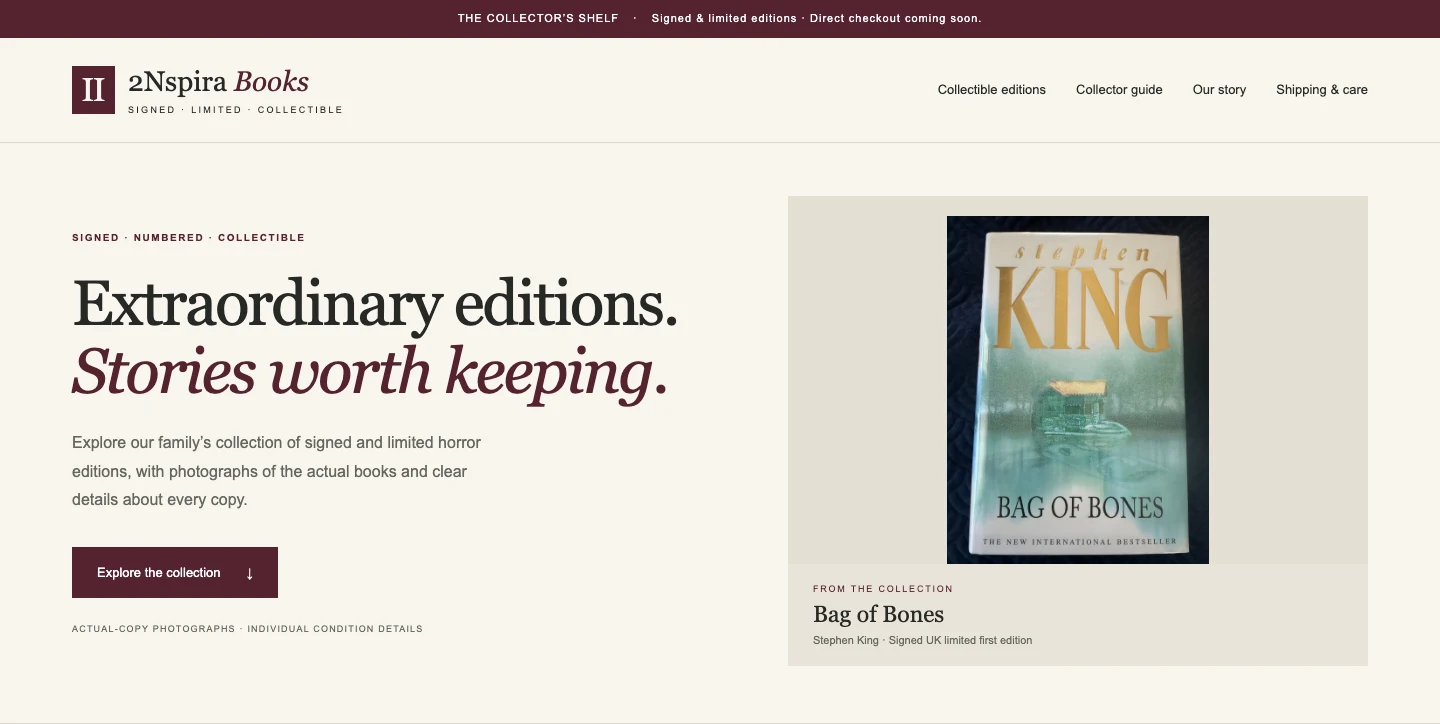
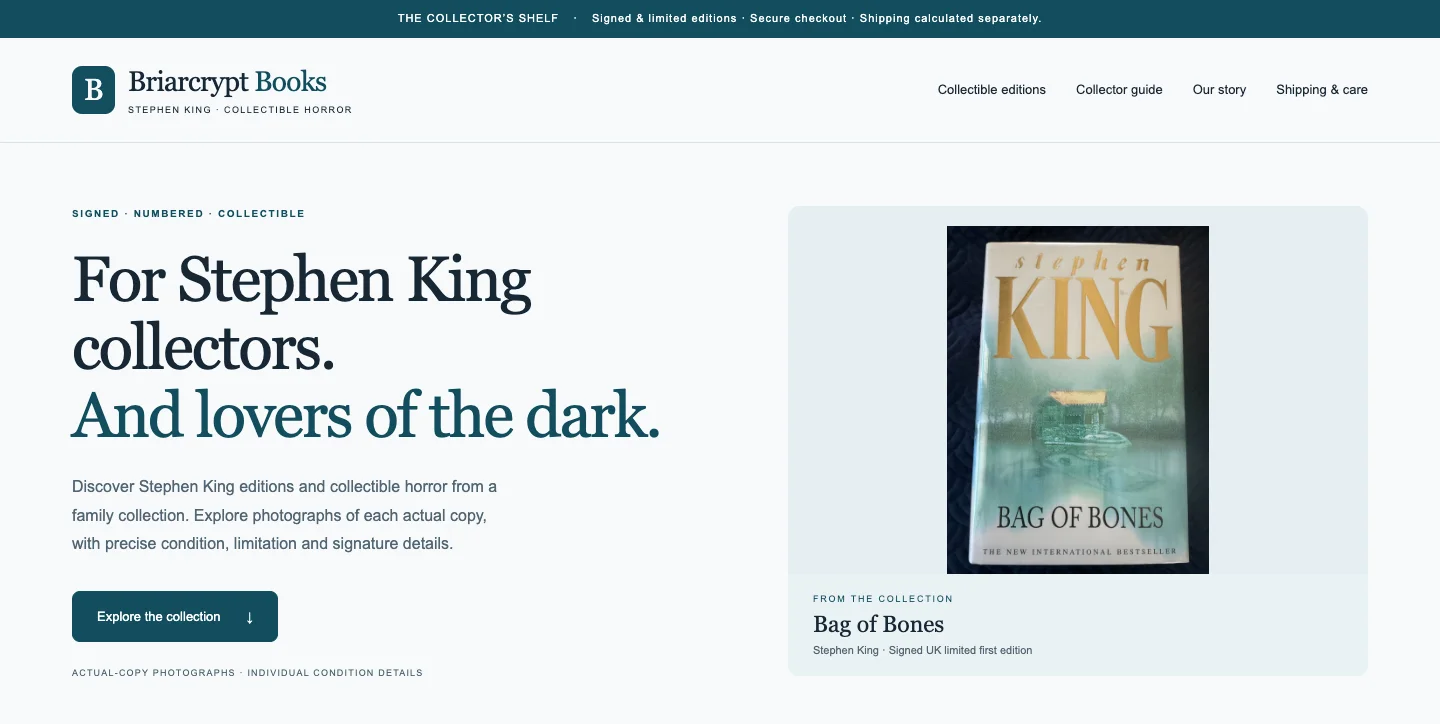
Rebrand bookstore references and showcase as Briarcrypt Books

diff --git a/2nspira-website/src/app/shop/page.tsx b/2nspira-website/src/app/shop/page.tsx
@@ -42,20 +42,20 @@ export default function ShopPage() {
       <div className="mx-auto max-w-6xl px-4 pb-20 sm:px-6">
         <aside data-catalog-fade className="mb-10 grid items-center gap-7 rounded-2xl border border-line bg-accent-soft p-6 sm:p-8 lg:grid-cols-2 lg:gap-10" aria-labelledby="shop-bookstore-title">
           <div>
-            <p className="mb-3 text-sm font-semibold uppercase tracking-widest text-body">The collector’s shelf · 2Nspira Books</p>
+            <p className="mb-3 text-sm font-semibold uppercase tracking-widest text-body">The collector’s shelf · Briarcrypt Books</p>
             <h2 id="shop-bookstore-title" className={h2}>Rare & collectible books.</h2>
-            <p className="mt-3 leading-7 text-body">Discover our collection of rare collectible books, including signed and limited editions. Explore photographs of the actual copies, individual condition details, and the stories behind each edition at 2Nspira Books.</p>
-            <a href="https://books.2nspira.com" className={`mt-5 min-h-[48px] ${buttonPrimary}`}>Explore rare collectibles <span aria-hidden="true" className="ml-2">→</span></a>
+            <p className="mt-3 leading-7 text-body">Discover an independent collection of rare collectible books, including signed and limited editions. Explore photographs of the actual copies, individual condition details, and the stories behind each edition at Briarcrypt Books.</p>
+            <a href="https://briarcrypt.com" className={`mt-5 min-h-[48px] ${buttonPrimary}`}>Explore rare collectibles <span aria-hidden="true" className="ml-2">→</span></a>
           </div>
-          <a href="https://books.2nspira.com" data-catalog-card className="block overflow-hidden rounded-xl border border-line bg-white shadow-lg transition-shadow hover:shadow-xl focus-visible:outline-2 focus-visible:outline-offset-4 focus-visible:outline-accent" aria-label="Visit 2Nspira Books rare collectible bookstore">
+          <a href="https://briarcrypt.com" data-catalog-card className="block overflow-hidden rounded-xl border border-line bg-white shadow-lg transition-shadow hover:shadow-xl focus-visible:outline-2 focus-visible:outline-offset-4 focus-visible:outline-accent" aria-label="Visit Briarcrypt Books rare collectible bookstore">
             <div className="flex items-center gap-2 border-b border-line bg-white px-4 py-3 text-xs text-body" aria-hidden="true">
               <span className="h-2 w-2 rounded-full bg-slate-300" />
               <span className="h-2 w-2 rounded-full bg-slate-300" />
               <span className="h-2 w-2 rounded-full bg-slate-300" />
-              <span className="ml-2">books.2nspira.com</span>
+              <span className="ml-2">briarcrypt.com</span>
             </div>
-            <Image src="/images/shop/rare-books-website.webp" alt="2Nspira Books website featuring a signed limited edition of Stephen King’s Bag of Bones" width={1440} height={724} sizes="(min-width: 1024px) 500px, 100vw" className="h-auto w-full" />
-            <p className="border-t border-line px-4 py-3 text-sm font-semibold text-body">Preview our collectible bookstore <span aria-hidden="true">↗</span></p>
+            <Image src="/images/shop/rare-books-website.webp" alt="Briarcrypt Books website featuring a signed limited edition of Stephen King’s Bag of Bones" width={1440} height={724} sizes="(min-width: 1024px) 500px, 100vw" className="h-auto w-full" />
+            <p className="border-t border-line px-4 py-3 text-sm font-semibold text-body">Explore Briarcrypt Books <span aria-hidden="true">↗</span></p>
           </a>
         </aside>
         <nav aria-label="Shop departments" className="flex flex-wrap gap-3">{[{name:"Our published books",href:"#published-books"},{name:"Rare & collectible books",href:"#shop-bookstore-title"},{name:"Other creative products",href:"#creative-products"}].map(link=><a key={link.href} href={link.href} className={buttonPrimary}>{link.name}</a>)}</nav>

diff --git a/2nspira-website/src/lib/audiences/seed.ts b/2nspira-website/src/lib/audiences/seed.ts
@@ -120,7 +120,7 @@ export function upgradeContent(content: Content): Content {
   }
   // Retired offerings must not reappear from saved content. Preserve all other Admin edits.
   const retire = (value: unknown): unknown => {
-    if (typeof value === "string") return value.replaceAll("/fractional-cio", "/technology-advisory").replaceAll("Executive Technology Advisory", "Technology Advisory & Leadership").replaceAll("/coaching", "/services").replaceAll("/entrepreneur-mentoring", "/services").replaceAll("Entrepreneur mentoring offers a sounding board for priorities, trade-offs and accountability as you develop the business.", "Technology advisory helps you compare priorities and plan the next stage of your business.").replaceAll("founder mentoring", "technology advisory").replaceAll("Advice and mentoring", "Technology advisory").replaceAll("get mentoring as the business grows", "plan technology as the business grows").replaceAll("Mentoring does not include", "Advisory does not include").replaceAll("advice, mentoring or", "technology advisory or");
+    if (typeof value === "string") return value.replaceAll("https://books.2nspira.com", "https://briarcrypt.com").replaceAll("Visit 2Nspira Books — our own storefront", "Visit Briarcrypt Books — independent bookstore").replaceAll("2Nspira Books", "Briarcrypt Books").replaceAll("2Nspira-owned storefront", "Independent client storefront").replaceAll("Our rare and collectible book storefront shows individual-copy photographs, condition details and product discovery. It is our own retail project, not a third-party client case study or proof of an omnichannel integration.", "Briarcrypt Books is an independent bookstore built by 2Nspira, with individual-copy photographs, condition details and product discovery. It is not proof of an omnichannel integration.").replaceAll("/fractional-cio", "/technology-advisory").replaceAll("Executive Technology Advisory", "Technology Advisory & Leadership").replaceAll("/coaching", "/services").replaceAll("/entrepreneur-mentoring", "/services").replaceAll("Entrepreneur mentoring offers a sounding board for priorities, trade-offs and accountability as you develop the business.", "Technology advisory helps you compare priorities and plan the next stage of your business.").replaceAll("founder mentoring", "technology advisory").replaceAll("Advice and mentoring", "Technology advisory").replaceAll("get mentoring as the business grows", "plan technology as the business grows").replaceAll("Mentoring does not include", "Advisory does not include").replaceAll("advice, mentoring or", "technology advisory or");
     if (Array.isArray(value)) return value.map(retire);
     if (value && typeof value === "object") return Object.fromEntries(Object.entries(value).map(([key, item]) => [key, retire(item)]));
     return value;

diff --git a/2nspira-website/src/lib/audiences/page-seeds.ts b/2nspira-website/src/lib/audiences/page-seeds.ts
@@ -66,7 +66,7 @@ export const dedicatedAudiences: Industry[] = [
     help: "Connect storefronts, inventory, order handling, payment workflows and customer communications around the way you sell.",
     outcomes: "Less repeated entry, clearer order follow-through and a more consistent shopping experience across channels.",
     linkLabel: "Explore retail & e-commerce support", href: audienceRoutes.retail,
-    exampleLabel: "Visit 2Nspira Books — our own storefront", exampleHref: "https://books.2nspira.com",
+    exampleLabel: "Visit Briarcrypt Books — independent bookstore", exampleHref: "https://briarcrypt.com",
     page: {
       seoTitle: "Retail & E-commerce Websites, Integrations & Automation",
       seoDescription: "Connect storefronts, inventory, orders, payments and customer communications with practical technology support for independent retailers and e-commerce businesses.",
@@ -84,7 +84,7 @@ export const dedicatedAudiences: Industry[] = [
       ],
       advisoryTitle: "Choose what fits your shop", advisoryText: "Review the sales journey, current tools and operational constraints before choosing an integration or replacement. We can help prioritize a manageable improvement rather than assume you need a new platform.",
       implementationTitle: "Build and connect an agreed scope", implementationText: "Implementation is separately scoped around supported systems, data access, payment-provider boundaries and testing. A storefront example does not imply every inventory or payment integration is already available.",
-      examples: [{ title: "2Nspira Books", kind: "2Nspira-owned storefront", text: "Our rare and collectible book storefront shows individual-copy photographs, condition details and product discovery. It is our own retail project, not a third-party client case study or proof of an omnichannel integration.", href: "https://books.2nspira.com" }],
+      examples: [{ title: "Briarcrypt Books", kind: "Independent client storefront", text: "Briarcrypt Books is an independent bookstore built by 2Nspira, with individual-copy photographs, condition details and product discovery. It is not proof of an omnichannel integration.", href: "https://briarcrypt.com" }],
       ctaTitle: "Where does a sale create extra work?", ctaText: "Walk us through your storefronts, order process and customer follow-up. We can discuss one practical connection or improvement to start with.", ctaLabel: "Book a conversation about your shop",
     },
   },

diff --git a/2nspira-website/src/app/work/page.tsx b/2nspira-website/src/app/work/page.tsx
@@ -37,10 +37,10 @@ const teamsCapabilities = [
 
 const supportingProjects = [
   {
-    name: "2Nspira Books",
+    name: "Briarcrypt Books",
     description:
-      "Our dedicated storefront for rare and collectible books, with photographs and condition details for individual copies.",
-    url: "https://books.2nspira.com",
+      "An independent storefront built by 2Nspira for rare and collectible books, with photographs and condition details for individual copies.",
+    url: "https://briarcrypt.com",
     image: "/images/work/live-books-20261105.jpg",
   },
   {
@@ -248,9 +248,9 @@ export default async function WorkPage() {
                 <Link href="/post/building-ai-team-multi-agent-workflow-lessons" className={styles.projectLink}>Explore the engineering lessons <span aria-hidden="true">→</span></Link>
               </div>
             </article>
-            {supportingProjects.filter(project => ["2Nspira", "2Nspira Books", "Breadcrumb", "CalmLoop"].includes(project.name)).map(project => {
+            {supportingProjects.filter(project => ["2Nspira", "Briarcrypt Books", "Breadcrumb", "CalmLoop"].includes(project.name)).map(project => {
               const visuals: Record<string, { image: string; alt: string; label: string }> = {
-                "2Nspira Books": { image: "/images/work/live-books-20261105.jpg", alt: "2Nspira Books storefront featuring collectible editions", label: "Rare & collectible books" },
+                "Briarcrypt Books": { image: "/images/work/live-books-20261105.jpg", alt: "Briarcrypt Books storefront featuring collectible editions", label: "Rare & collectible books" },
                 "2Nspira": { image: "/images/work/live-2nspira-20261105.jpg", alt: "2Nspira public website homepage", label: "Our digital platform" },
                 "Breadcrumb": { image: "/images/work/project-breadcrumb.png", alt: "Breadcrumb project artwork featuring an investigation workspace", label: "OSINT challenge game" },
                 "CalmLoop": { image: "/images/work/live-calmloop-20261105.jpg", alt: "CalmLoop companion application start screen", label: "Family-focused companion" },

diff --git a/2nspira-website/src/components/studio/StudioOverview.tsx b/2nspira-website/src/components/studio/StudioOverview.tsx
@@ -9,7 +9,7 @@ const stories = {
   watch: { Icon: Play, title: "A fresh way to see things.", text: "Watch Why AI Adoption Is Failing: The Trust Deficit Leaders Are Missing—a perspective on trust and human-centered leadership.", label: "Discover Watch", image: "/images/videos/hWk6mH_t0Cs.jpg", alt: "Why AI Adoption Is Failing: The Trust Deficit Leaders Are Missing" },
   listen: { Icon: Headphones, title: "A little space to exhale.", text: "Music & Ambience. Rain on an attic window, a mossy garden, or a quiet café. Step into an original soundscape and stay a while.", label: "Discover Listen", image: `/images/videos/${featuredVideo.id}.jpg`, alt: featuredVideo.title },
   read: { Icon: BookOpen, title: "Ideas that stay with you.", text: "A leadership book to return to. Insights that make you pause. Explore the human side of technology, trust, and change.", label: "Discover Read", image: "", alt: "" },
-  shop: { Icon: ShoppingBag, title: "Find something worth keeping.", text: "Shop our published books, rare and collectible editions, and other creative products. Purchase through the existing Amazon, Etsy, and 2Nspira Books listings.", label: "Explore Shop", image: "/images/shop/rare-books-website.webp", alt: "The 2Nspira Books collectible bookstore" },
+  shop: { Icon: ShoppingBag, title: "Find something worth keeping.", text: "Shop our published books, rare and collectible editions, and other creative products. Purchase through the existing Amazon, Etsy, and Briarcrypt Books listings.", label: "Explore Shop", image: "/images/shop/rare-books-website.webp", alt: "The Briarcrypt Books collectible bookstore" },
   play: { Icon: Sparkles, title: "Follow your curiosity.", text: "Follow the clues in the Breadcrumb investigation challenge, or reflect on how you contribute with the Strength Profile.", label: "Discover Play", image: "", alt: "" },
 };
 export default function StudioOverview({ content }: { content: Studio }) {

diff --git a/2nspira-website/src/app/page.tsx b/2nspira-website/src/app/page.tsx
@@ -59,7 +59,7 @@ const featuredProjects = [
   { name: "Teams Management", type: "Property management", status: "Published client website", url: "https://www.teamsmanagement.com/", image: "teams", alt: "Teams Management website showing New York property discovery", challenge: "A portfolio to bring together.", description: "Clear property discovery, galleries and inquiries." },
   { name: "GeVitals", type: "Health & wellness", status: "Published client website", url: "https://gevitals.com/", image: "gevitals", alt: "GeVitals clinic website with Spanish-language services and English navigation option", challenge: "Care across two languages.", description: "One bilingual home for services, content and video." },
   { name: "Open Goal Soccer", type: "Community & nonprofit", status: "Published community archive", url: "https://opengoalsoccer.com/", image: "soccer", alt: "Open Goal Soccer archive with its inclusive youth soccer story and original program photography", challenge: "A community story worth keeping.", description: "A modern archive for an inclusive soccer legacy." },
-  { name: "2Nspira Bookstore", type: "In-house e-commerce storefront", status: "An in-house 2Nspira project", url: "https://books.2nspira.com/", image: "bookstore", alt: "2Nspira Bookstore public catalog showing collectible books and individual copy listings", challenge: "Every copy has a story.", description: "A collectible-book catalog with individual copy details, photography and pricing." },
+  { name: "Briarcrypt Books", type: "Independent collectible-book storefront", status: "Designed and built by 2Nspira", url: "https://briarcrypt.com/", image: "bookstore", alt: "Briarcrypt Books public catalog showing collectible books and individual copy listings", challenge: "Every copy has a story.", description: "A collectible-book catalog with individual copy details, photography and pricing." },
 ];
 
 export default function Home() {

diff --git a/2nspira-website/src/app/books/page.tsx b/2nspira-website/src/app/books/page.tsx
@@ -150,12 +150,12 @@ export default function BooksPage() {
           </div>
         </section>
         <section className={`p-6 sm:p-10 ${card}`} aria-labelledby="bookstore-title">
-          <h2 id="bookstore-title" className={h2}>Discover 2Nspira Books</h2>
+          <h2 id="bookstore-title" className={h2}>Discover Briarcrypt Books</h2>
           <p className="mt-4 max-w-2xl leading-7 text-body">
-            Looking beyond leadership? Explore our dedicated bookstore for collectible
-            editions, our published books, coloring books, and printable activities.
+            Looking beyond leadership? Explore Briarcrypt Books, an independent bookstore built by 2Nspira, for collectible
+            horror editions, signed books, and limited editions with individual-copy photographs and condition details.
           </p>
-          <a href="https://books.2nspira.com" className={`mt-6 ${buttonPrimary}`}>
+          <a href="https://briarcrypt.com" className={`mt-6 ${buttonPrimary}`}>
             Visit the bookstore <span aria-hidden="true" className="ml-2">→</span>
           </a>
         </section>

diff --git a/2nspira-website/src/lib/studio/model.ts b/2nspira-website/src/lib/studio/model.ts
@@ -67,6 +67,13 @@ export function safeUrl(value: string, image = false) {
 // Upgrade existing saved catalogues without publishing drafts or copying product records.
 // Once saved, the marker preserves all subsequent Admin choices (including Listen).
 export function upgradeStudio(content: Studio): Studio {
+  // Rebrand only the existing bookstore item; preserve visibility, status and ordering.
+  content = { ...content, items: content.items.map(item => item.id === "rare-collectible-books" ? {
+    ...item,
+    url: item.url.replace("https://books.2nspira.com", "https://briarcrypt.com"),
+    description: item.description.replaceAll("2Nspira Books", "Briarcrypt Books"),
+    imageAlt: item.imageAlt.replace("2Nspira rare and collectible bookstore", "Briarcrypt Books rare and collectible bookstore"),
+  } : item) };
   if (content.navigationVersion === 3) return content;
   if (content.navigationVersion === 2) {
     const next = structuredClone(content);

diff --git a/2nspira-website/src/lib/studio/seed.ts b/2nspira-website/src/lib/studio/seed.ts
@@ -216,13 +216,13 @@ export function initialStudio(): Studio {
         id: "rare-collectible-books",
         title: "The collector’s shelf",
         description:
-          "Explore rare, signed, and limited editions, with photographs and condition details for each individual copy at 2Nspira Books.",
+          "Explore rare, signed, and limited editions, with photographs and condition details for each individual copy at Briarcrypt Books.",
         type: "Collection",
         categoryIds: ["collectibles"],
         featured: false,
         image: "/images/shop/rare-books-website.webp",
-        imageAlt: "A preview of the 2Nspira rare and collectible bookstore",
-        url: "https://books.2nspira.com",
+        imageAlt: "A preview of Briarcrypt Books, an independent rare and collectible bookstore",
+        url: "https://briarcrypt.com",
         status: "draft",
       }),
       ...[
